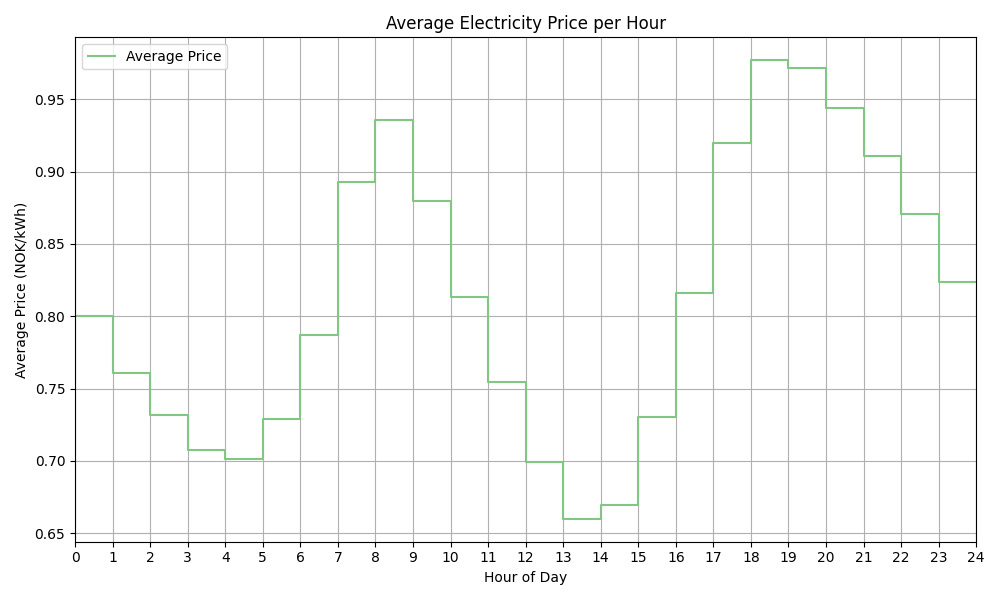
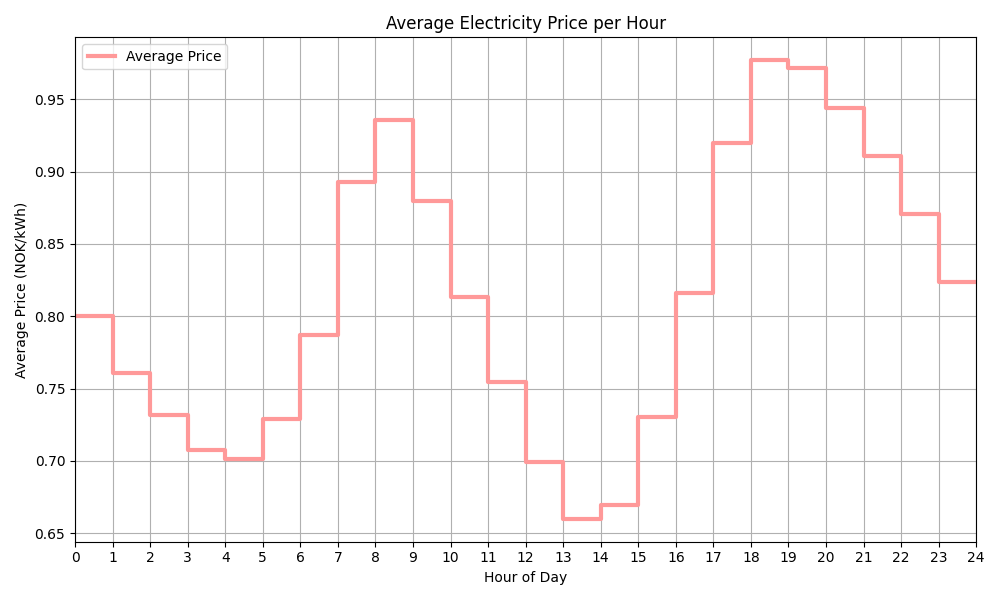
Updated plot visuals

diff --git a/visualization/hourlyElectricityPrice.py b/visualization/hourlyElectricityPrice.py
@@ -10,7 +10,7 @@ average_prices_no2 = df.groupby('hour')['NO2'].mean()
 average_prices_no2.loc[24] = average_prices_no2.loc[23]
 
 plt.figure(figsize=(10, 6))
-plt.step(average_prices_no2.index, average_prices_no2.values, where='post', color='#81C784', label='Average Price')
+plt.step(average_prices_no2.index, average_prices_no2.values, where='post', color='#ff9999', label='Average Price', linewidth='3')
 plt.title('Average Electricity Price per Hour')
 plt.ylabel('Average Price (NOK/kWh)')
 plt.xlabel('Hour of Day')
